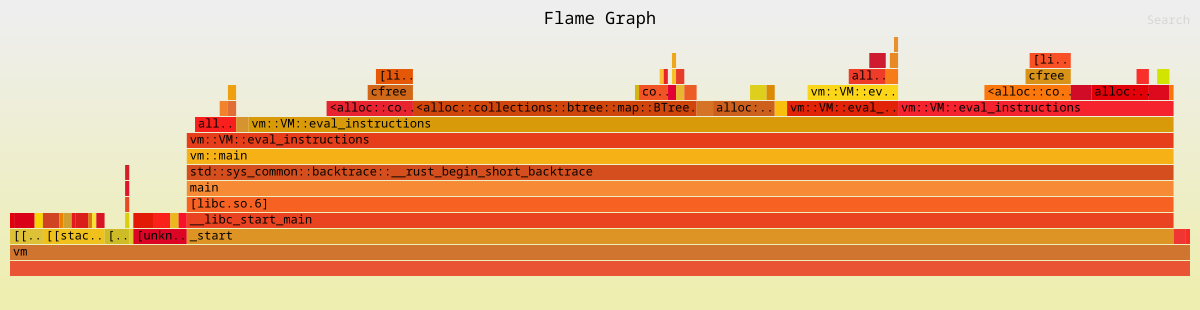
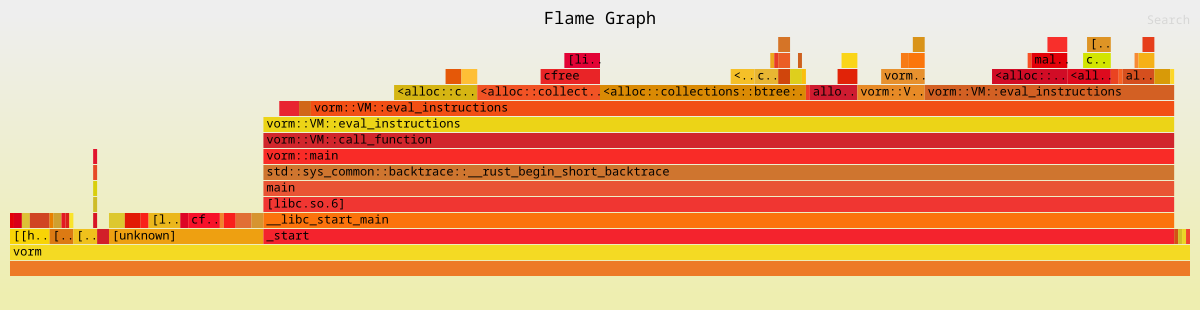
fix context

diff --git a/src/lib.rs b/src/lib.rs
@@ -1,6 +1,5 @@
 use serde::{Deserialize, Serialize};
 use std::collections::BTreeMap;
-use stringlit::s;
 
 // todo: remove this one day
 // maybe replace with thiserror
@@ -143,8 +142,12 @@ pub enum RangeMode {
 
 #[derive(Clone, Debug, Deserialize, Serialize)]
 pub enum Range {
-    Values(Vec<Value>),
+    Values {
+        item: String,
+        values: Vec<Value>,
+    },
     Range {
+        item: String,
         start: Expr,
         stop: Expr,
         step: Expr,
@@ -156,7 +159,7 @@ impl Range {
     pub fn get_arguments(&self) -> Vec<String> {
         let mut args = Vec::new();
         match self {
-            Range::Values(_) => (),
+            Range::Values { .. } => (),
             Range::Range {
                 start, stop, step, ..
             } => {
@@ -267,7 +270,7 @@ impl VM {
             },
             Expr::Var(name) => match local_context.variables.get(name) {
                 Some(value) => Ok(value.clone()),
-                None => Err(anyhow!("Cannot find variable named {:?}", name)),
+                None => Err(anyhow!("Cannot find variable named {:?}", name,)),
             },
             Expr::Arg(name) => match local_context.arguments.get(name) {
                 Some(value) => Ok(value.clone()),
@@ -376,7 +379,7 @@ impl VM {
         instructions: &Vec<Instruction>,
         args: &BTreeMap<String, Expr>,
     ) -> anyhow::Result<Returned> {
-        let mut local_context = FunctionContext::new();
+        let mut local_context = calling_context.clone();
         for (name, arg) in args {
             let value = self.eval_expression(&calling_context, &arg)?;
             local_context.arguments.insert(name.clone(), value);
@@ -420,17 +423,18 @@ impl VM {
                         .map(Returned::Early)
                 }
                 Instruction::For(range, instructions) => {
-                    let mut args = args.clone();
+                    let mut loop_context = local_context.clone();
                     match range {
                         Range::Range {
+                            item,
                             start,
                             stop,
                             step,
                             mode,
                         } => {
-                            let start = self.eval_expression(&local_context, start)?;
-                            let stop = self.eval_expression(&local_context, stop)?;
-                            let step = self.eval_expression(&local_context, step)?;
+                            let start = self.eval_expression(&loop_context, start)?;
+                            let stop = self.eval_expression(&loop_context, stop)?;
+                            let step = self.eval_expression(&loop_context, step)?;
                             match (start, stop, step) {
                                 (
                                     Value::Scalar(Scalar::I32(start)),
@@ -443,11 +447,12 @@ impl VM {
                                         RangeMode::Exclusive => ((start as usize)..(stop as usize))
                                             .step_by(step as usize),
                                     } {
-                                        local_context
-                                            .variables
-                                            .insert(s!("it"), Value::Scalar(Scalar::I32(v as i32)));
+                                        loop_context.variables.insert(
+                                            item.clone(),
+                                            Value::Scalar(Scalar::I32(v as i32)),
+                                        );
                                         let value = self.eval_instructions(
-                                            &local_context,
+                                            &loop_context,
                                             instructions,
                                             &args,
                                         )?;
@@ -470,11 +475,11 @@ impl VM {
                                 }
                             }
                         }
-                        Range::Values(values) => {
+                        Range::Values { item, values } => {
                             for v in values {
-                                args.insert(s!("it"), Expr::Value(v.clone()));
+                                loop_context.variables.insert(item.clone(), v.clone());
                                 let value =
-                                    self.eval_instructions(&local_context, instructions, &args)?;
+                                    self.eval_instructions(&loop_context, instructions, &args)?;
                                 if let Returned::Early(_) = value {
                                     return Ok(value);
                                 }

diff --git a/src/main.rs b/src/main.rs
@@ -112,6 +112,7 @@ fn create_demo_code() -> anyhow::Result<VM> {
         "main",
         Function::new(vec![For(
             Range::Range {
+                item: s!("it"),
                 start: Expr::Value(Scalar(I32(0))),
                 stop: Expr::Arg(s!("n")),
                 step: Expr::Value(Scalar(I32(1))),
